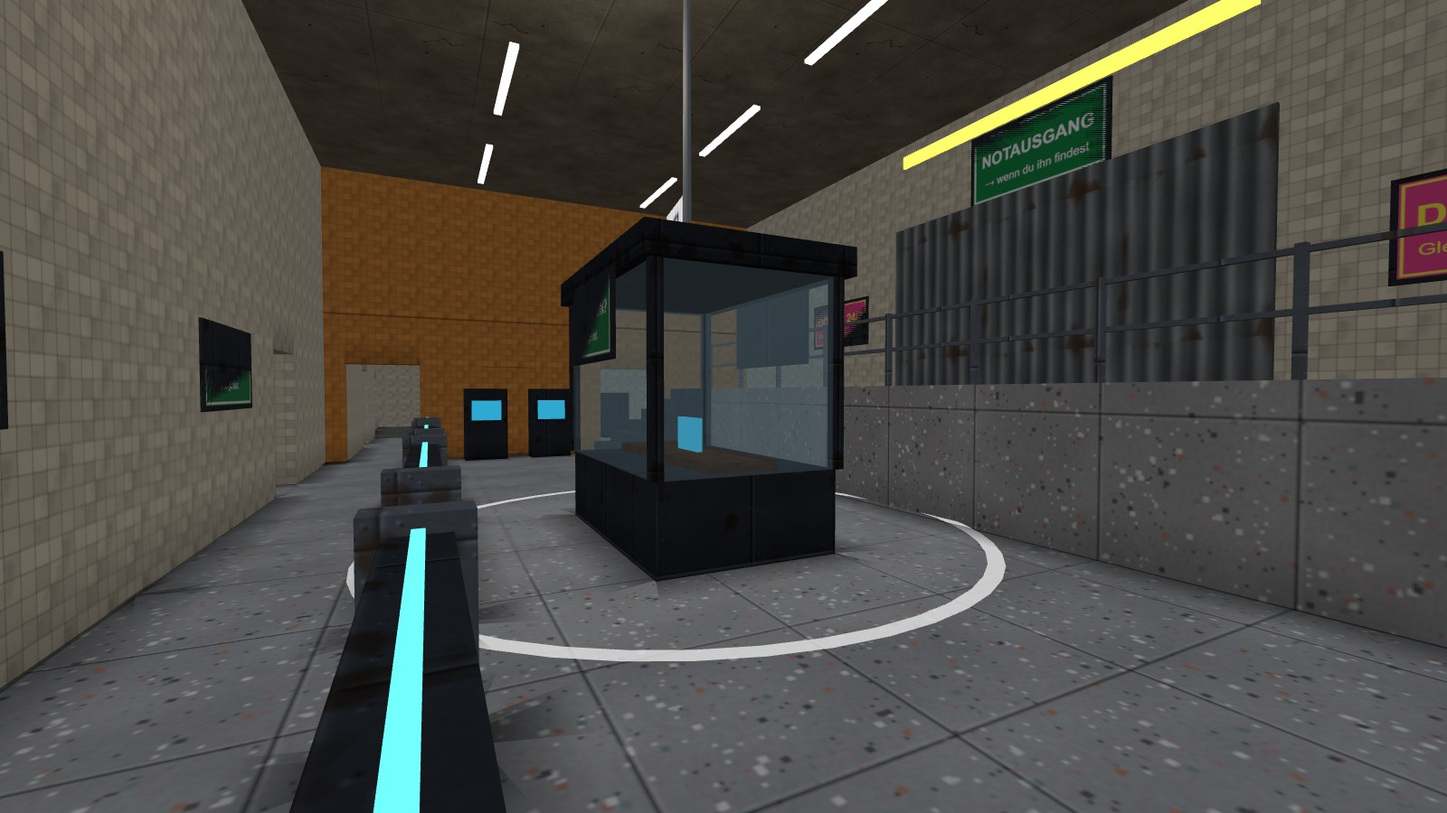
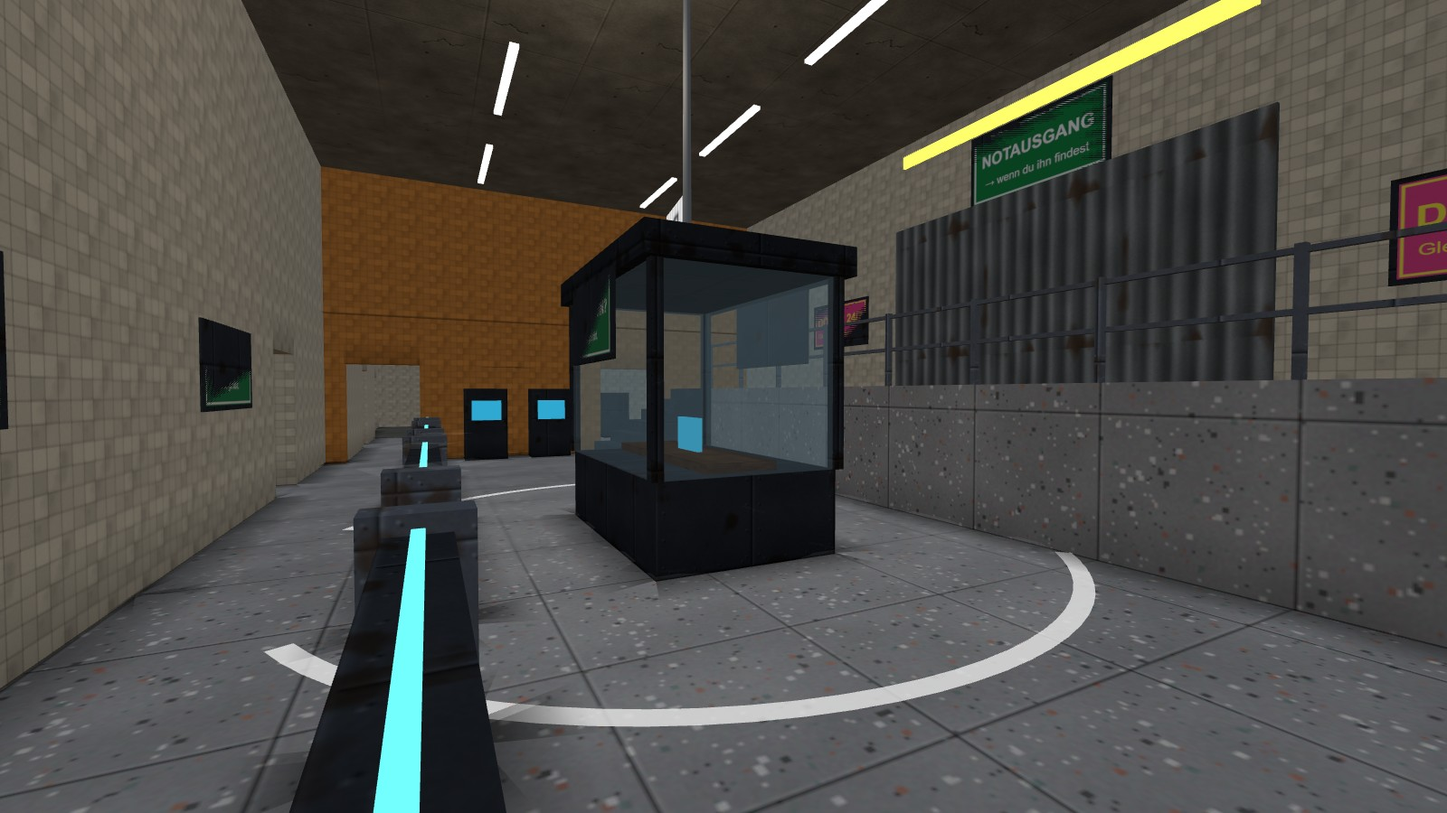
Shoot while sliding, open iron sights, endless Gun Game ammo
You can shoot at any time except while climbing: a slide no longer
keeps the gun down, rolling over while prone doesn't block it either,
and a trigger press during a sprint waits for the gun instead of
getting lost. Every rear sight is an open notch or ring and the front
post ends on the line of sight, so the target stays in view. Gun Game
has unlimited reserve ammo. CHANGELOG, README and three pictures also
describe the reworked Wingman points, whose map files are committed
separately.

diff --git a/src/weapons/models.js b/src/weapons/models.js
@@ -104,6 +104,24 @@ export function profCurve(parent, mat, segs, t, x = 0, bevel = 0.002) {
 function group(parent, name, x = 0, y = 0, z = 0) {
   const g = new THREE.Group(); g.name = name; g.position.set(x, y, z); parent.add(g); return g;
 }
+// Iron sights that leave the target in view. y is the line of sight (the model's ironY): the rear sight is a real
+// notch, two ears with nothing between them above the notch floor, and the front post ends exactly on the line, so
+// the shot goes where the tip of the post points and everything above it stays visible.
+function rearNotch(parent, mat, y, z, base, { w = 0.02, gap = 0.008, floor = 0.004, lip = 0.0015, d = 0.012 } = {}) {
+  box(parent, mat, w, y - floor - base, d, 0, (base + y - floor) / 2, z);
+  const ew = (w - gap) / 2, top = y + lip;
+  for (const s of [-1, 1]) box(parent, mat, ew, top - base, d, s * (gap + ew) / 2, (base + top) / 2, z);
+}
+function frontPost(parent, mat, y, z, base, w = 0.004, d = 0.006) {
+  box(parent, mat, w, y - base, d, 0, (base + y) / 2, z);
+}
+// a rear aperture (ghost ring) on a stem, with ears either side and nothing across the hole
+function rearRing(parent, mat, y, z, base, r = 0.0072, t = 0.0016) {
+  const ring = M(new THREE.TorusGeometry(r, t, 6, 18), mat); place(ring, 0, y, z); parent.add(ring);
+  box(parent, mat, 0.004, y - r - t - base, 0.006, 0, (base + y - r - t) / 2, z);
+  const ex = r + t + 0.0028, top = y + 0.006;
+  for (const s of [-1, 1]) box(parent, mat, 0.0025, top - base, 0.012, s * ex, (base + top) / 2, z);
+}
 // Rail with cross slots
 function rail(parent, mat, z0, z1, y, w = 0.021) {
   box(parent, mat, w, 0.007, z1 - z0, 0, y + 0.0035, (z0 + z1) / 2);
@@ -658,11 +676,10 @@ function buildAR(m, opt) {
   const ironUp = opt === 'iron';
   if (ironUp) {
     box(root, m.metal, 0.02, 0.012, 0.03, 0, 0.094, 0.07, 0, 0, 0, 0.002);
-    box(root, m.metal, 0.02, 0.022, 0.008, 0, 0.11, 0.075);
-    const ring = M(new THREE.TorusGeometry(0.0055, 0.0022, 6, 14), m.metal); place(ring, 0, 0.112, 0.07); root.add(ring);
+    rearRing(root, m.metal, 0.112, 0.07, 0.1);
     box(root, m.metal, 0.012, 0.02, 0.012, 0, 0.094, -0.44);
-    box(root, m.metal, 0.003, 0.02, 0.003, 0, 0.109, -0.44);
-    box(root, m.metal, 0.003, 0.024, 0.008, 0.008, 0.108, -0.44); box(root, m.metal, 0.003, 0.024, 0.008, -0.008, 0.108, -0.44);
+    frontPost(root, m.metal, 0.112, -0.44, 0.099, 0.003, 0.003);
+    box(root, m.metal, 0.003, 0.019, 0.008, 0.008, 0.1055, -0.44); box(root, m.metal, 0.003, 0.019, 0.008, -0.008, 0.1055, -0.44);
   } else {
     box(root, m.metal, 0.016, 0.012, 0.032, 0, 0.094, -0.44, 0, 0, 0, 0.002);
     box(root, m.metal, 0.014, 0.004, 0.026, 0, 0.1015, -0.44, 0, 0, 0, 0.0015);
@@ -711,8 +728,8 @@ function buildSMG(m, opt) {
   box(P.mag, m.poly, 0.028, 0.012, 0.05, 0, -0.164, -0.007, 0, 0, 0, 0.003);
   // iron sights
   if (opt === 'iron') {
-    box(root, m.metal, 0.02, 0.016, 0.012, 0, 0.1, 0.07); box(root, m.dark, 0.006, 0.008, 0.013, 0, 0.106, 0.07);
-    box(root, m.metal, 0.004, 0.018, 0.006, 0, 0.1, -0.17); box(root, m.metal, 0.02, 0.006, 0.01, 0, 0.094, -0.17);
+    rearNotch(root, m.metal, 0.109, 0.07, 0.092, { gap: 0.007 });
+    frontPost(root, m.metal, 0.109, -0.17, 0.091); box(root, m.metal, 0.02, 0.006, 0.01, 0, 0.094, -0.17);
   }
 
   // ---- detail pass: side rails, pins, controls, mag witness holes, stock hinge, grip rings
@@ -776,8 +793,8 @@ function buildLMG(m, opt) {
   P.belt = group(P.mag, 'belt', 0, 0, 0);
   for (let i = 0; i < 4; i++) cyl(P.belt, m.brass, 0.0055, 0.0055, 0.045, 0.012 + i * 0.01, -0.0, -0.01, 'x', 6);
   if (opt === 'iron') {
-    box(root, m.metal, 0.02, 0.02, 0.012, 0, 0.088, 0.1); box(root, m.dark, 0.006, 0.01, 0.013, 0, 0.094, 0.1);
-    box(root, m.metal, 0.004, 0.03, 0.006, 0, 0.068, -0.6);
+    rearNotch(root, m.metal, 0.096, 0.1, 0.078);
+    box(root, m.metal, 0.012, 0.031, 0.012, 0, 0.0685, -0.6); frontPost(root, m.metal, 0.096, -0.6, 0.084);
   }
 
   // ---- detail pass: receiver rivets, cover latch, carry handle grip, deployed-ready bipod, gas tube
@@ -829,8 +846,8 @@ function buildDMR(m, opt) {
   prof(P.mag, m.metal, [[0.03, 0.0], [-0.03, 0.0], [-0.034, -0.12], [0.026, -0.12]], 0.03, 0, 0.003);
   box(P.mag, m.metal, 0.034, 0.012, 0.064, 0, -0.123, -0.004, 0, 0, 0, 0.003);
   if (opt === 'iron') {
-    box(root, m.metal, 0.02, 0.02, 0.012, 0, 0.1, 0.08); box(root, m.dark, 0.006, 0.01, 0.013, 0, 0.105, 0.08);
-    box(root, m.metal, 0.004, 0.028, 0.006, 0, 0.082, -0.66);
+    rearNotch(root, m.metal, 0.108, 0.08, 0.09);
+    box(root, m.metal, 0.012, 0.03, 0.012, 0, 0.083, -0.66); frontPost(root, m.metal, 0.108, -0.66, 0.098);
   }
 
   // ---- detail pass: steel fittings on the wood furniture
@@ -890,8 +907,8 @@ function buildSniper(m, opt) {
   for (const dz of [-0.06, 0.06]) for (const sx of [-1, 1]) box(root, m.steel, 0.004, 0.006, 0.006, sx * 0.0125, 0.073, dz, 0, 0, 0, 0.001);
   box(root, m.metal, 0.03, 0.006, 0.07, 0, -0.054, -0.03, 0, 0, 0, 0.002);
   if (opt === 'iron') { // a found rifle can come without any scope
-    box(root, m.metal, 0.02, 0.016, 0.012, 0, 0.094, 0.07); box(root, m.dark, 0.006, 0.008, 0.013, 0, 0.099, 0.07);
-    box(root, m.metal, 0.004, 0.05, 0.006, 0, 0.078, -0.82);
+    rearNotch(root, m.metal, 0.103, 0.07, 0.086);
+    frontPost(root, m.metal, 0.103, -0.82, 0.053);
   }
 
   return {
@@ -927,9 +944,11 @@ function buildShotgun(m, opt) {
   P.shellHand = group(root, 'shell', 0, 0, 0);
   const sh = shellCasing(m, 'shotgun'); P.shellHand.add(sh); P.shellHand.visible = false;
   if (opt === 'iron') {
-    const bead = M(new THREE.SphereGeometry(0.004, 8, 6), m.brass); place(bead, 0, 0.071, -0.62); root.add(bead);
+    // (the line of sight runs over the rail on the receiver: the notch sits on the rail, the bead on a blade)
+    const bead = M(new THREE.SphereGeometry(0.004, 8, 6), m.brass); place(bead, 0, 0.0825, -0.62); root.add(bead);
+    box(root, m.metal, 0.003, 0.0115, 0.006, 0, 0.07675, -0.62);
     box(root, m.metal, 0.004, 0.006, 0.4, 0, 0.068, -0.42);
-    box(root, m.metal, 0.018, 0.01, 0.01, 0, 0.074, 0.04); box(root, m.dark, 0.005, 0.006, 0.011, 0, 0.078, 0.04);
+    rearNotch(root, m.metal, 0.0865, 0.04, 0.0775, { w: 0.018, gap: 0.007, floor: 0.0035, d: 0.01 });
   }
 
   // ---- detail pass: side saddle with shells, ventilated heat shield, pins and controls
@@ -943,7 +962,7 @@ function buildShotgun(m, opt) {
   box(root, m.steel, 0.006, 0.012, 0.012, 0, 0.006, -0.57, 0, 0, 0, 0.002);
 
   return {
-    root, parts: P, ironY: 0.074, railY: 0.0775, opticZ: -0.03,
+    root, parts: P, ironY: 0.0865, railY: 0.0775, opticZ: -0.03,
     anchors: {
       rhand: rhandGrip(0, -0.06, 0.1, 0.45), lhand: lhandRail(0, 0.015, -0.27, 0.4),
       muzzle: new THREE.Vector3(0, 0.055, -0.64), eject: new THREE.Vector3(0.03, 0.045, -0.04),
@@ -968,10 +987,9 @@ function buildPistol(m, opt, variant) {
   box(P.slide, m.metal, 0.028, 0.03, 0.185, 0, 0.03, -0.035, 0, 0, 0, 0.003);
   for (let i = 0; i < 6; i++) box(P.slide, m.dark, 0.0285, 0.018, 0.003, 0, 0.03, 0.035 + i * 0.008 - 0.02);
   box(P.slide, m.dark, 0.003, 0.012, 0.03, 0.0142, 0.034, -0.05);
-  box(P.slide, m.metal, 0.012, 0.008, 0.006, 0, 0.048, 0.05);
-  box(P.slide, m.dark, 0.004, 0.006, 0.0065, 0, 0.049, 0.05);
-  box(P.slide, m.metal, 0.003, 0.009, 0.006, 0, 0.049, -0.12);
-  const dot = M(new THREE.SphereGeometry(0.0016, 6, 4), m.emissiveRed); place(dot, 0, 0.052, -0.118); P.slide.add(dot);
+  rearNotch(P.slide, m.metal, 0.0525, 0.05, 0.044, { w: 0.012, gap: 0.005, floor: 0.003, lip: 0.001, d: 0.006 });
+  frontPost(P.slide, m.metal, 0.0525, -0.12, 0.0445, 0.003);
+  const dot = M(new THREE.SphereGeometry(0.0014, 6, 4), m.emissiveRed); place(dot, 0, 0.05, -0.1172); P.slide.add(dot);
   cyl(root, m.metal, 0.0065, 0.0065, 0.02, 0, 0.03, -0.13);
   if (auto) {
     // compensator + selector
@@ -1025,14 +1043,14 @@ function buildRevolver(m, opt) {
   cyl(P.mag, m.dark, 0.016, 0.016, 0.02, 0, 0, 0.02, 'z', 10);
   for (let i = 0; i < 6; i++) { const a = i / 6 * Math.PI * 2; cyl(P.mag, m.brass, 0.0045, 0.004, 0.03, Math.cos(a) * 0.0115, Math.sin(a) * 0.0115, -0.01, 'z', 6); }
 
-  // ---- detail pass: hammer spur, cylinder latch, grip screw & medallion, sight insert
-  box(root, m.steel, 0.008, 0.008, 0.016, 0, 0.078, 0.052, -0.6, 0, 0, 0.002);
-  for (let i = 0; i < 3; i++) box(root, m.dark, 0.0085, 0.0015, 0.004, 0, 0.083 - i * 0.002, 0.048 + i * 0.004, -0.6);
+  // ---- detail pass: hammer spur (kept under the line of sight), cylinder latch, grip screw & medallion, sights
+  box(root, m.steel, 0.008, 0.008, 0.016, 0, 0.07, 0.052, -0.6, 0, 0, 0.002);
+  for (let i = 0; i < 3; i++) box(root, m.dark, 0.0085, 0.0015, 0.004, 0, 0.075 - i * 0.002, 0.048 + i * 0.004, -0.6);
   box(root, m.steel, 0.004, 0.008, 0.014, -0.0175, 0.04, 0.01, 0, 0, 0, 0.0015);
   cyl(root, m.steel, 0.0032, 0.0032, 0.036, 0, -0.05, 0.05, 'x', 10);
   cyl(root, m.brass, 0.006, 0.006, 0.002, 0.0175, -0.065, 0.054, 'x', 12);
-  box(root, m.emissiveRed, 0.0025, 0.004, 0.003, 0, 0.081, -0.225);
-  box(root, m.dark, 0.004, 0.004, 0.006, 0, 0.072, 0.04);
+  if (opt === 'iron') rearNotch(root, m.steel, 0.08, 0.03, 0.062, { w: 0.012, gap: 0.005, floor: 0.003, lip: 0.001, d: 0.008 });
+  box(root, m.emissiveRed, 0.0025, 0.005, 0.002, 0, 0.0765, -0.2195);
 
   return {
     root, parts: P, ironY: 0.08, railY: 0.07, opticZ: 0.0,
@@ -1088,11 +1106,10 @@ function buildBurst(m, opt) {
   box(P.mag, m.brass, 0.009, 0.005, 0.03, 0, 0.022, 0.0, 0, 0, 0, 0.002);
   if (opt === 'iron') {
     box(root, m.metal, 0.02, 0.012, 0.03, 0, 0.094, 0.07, 0, 0, 0, 0.002);
-    box(root, m.metal, 0.02, 0.022, 0.008, 0, 0.11, 0.075);
-    const ring = M(new THREE.TorusGeometry(0.0055, 0.0022, 6, 14), m.metal); place(ring, 0, 0.112, 0.07); root.add(ring);
+    rearRing(root, m.metal, 0.112, 0.07, 0.1);
     box(root, m.metal, 0.012, 0.02, 0.012, 0, 0.09, -0.36);
-    box(root, m.metal, 0.003, 0.018, 0.003, 0, 0.103, -0.36);
-    box(root, m.metal, 0.003, 0.022, 0.008, 0.008, 0.102, -0.36); box(root, m.metal, 0.003, 0.022, 0.008, -0.008, 0.102, -0.36);
+    frontPost(root, m.metal, 0.112, -0.36, 0.094, 0.003, 0.003);
+    box(root, m.metal, 0.003, 0.024, 0.008, 0.008, 0.103, -0.36); box(root, m.metal, 0.003, 0.024, 0.008, -0.008, 0.103, -0.36);
   }
   return {
     root, parts: P, ironY: 0.112, railY: 0.0895, opticZ: 0.0,
@@ -1139,8 +1156,8 @@ function buildPDW(m, opt) {
   box(P.mag, m.poly, 0.028, 0.01, 0.052, 0, -0.158, -0.012, 0.08, 0, 0, 0.003);
   for (const s of [-1, 1]) for (let i = 0; i < 4; i++) cyl(P.mag, m.dark, 0.0028, 0.0028, 0.002, s * 0.0122, -0.03 - i * 0.03, -0.008 - i * 0.002, 'x', 8);
   if (opt === 'iron') {
-    box(root, m.metal, 0.02, 0.014, 0.012, 0, 0.094, 0.07); box(root, m.dark, 0.006, 0.008, 0.013, 0, 0.099, 0.07);
-    box(root, m.metal, 0.004, 0.018, 0.006, 0, 0.092, -0.17); box(root, m.metal, 0.02, 0.006, 0.01, 0, 0.086, -0.17);
+    rearNotch(root, m.metal, 0.101, 0.07, 0.087, { gap: 0.007 });
+    frontPost(root, m.metal, 0.101, -0.17, 0.083); box(root, m.metal, 0.02, 0.006, 0.01, 0, 0.086, -0.17);
   }
   return {
     root, parts: P, ironY: 0.101, railY: 0.0855, opticZ: -0.03,
@@ -1197,8 +1214,8 @@ function buildAMR(m, opt) {
   for (const s of [-1, 1]) for (let i = 0; i < 3; i++) box(P.mag, m.dark, 0.002, 0.09, 0.008, s * 0.0255, -0.06, -0.03 + i * 0.03);
   box(P.mag, m.brass, 0.018, 0.008, 0.08, 0, 0.008, 0, 0, 0, 0, 0.003);
   if (opt === 'iron') {
-    box(root, m.metal, 0.024, 0.016, 0.012, 0, 0.098, 0.09); box(root, m.dark, 0.008, 0.008, 0.013, 0, 0.103, 0.09);
-    box(root, m.metal, 0.005, 0.076, 0.006, 0, 0.07, -0.9);
+    rearNotch(root, m.metal, 0.107, 0.09, 0.09, { w: 0.024, gap: 0.009 });
+    frontPost(root, m.metal, 0.107, -0.9, 0.032, 0.005);
   }
   return {
     root, parts: P, ironY: 0.107, railY: 0.0895, opticZ: -0.02,
@@ -1247,8 +1264,8 @@ function buildAutoshot(m, opt) {
   for (const s of [-1, 1]) for (let i = 0; i < 3; i++) box(P.mag, m.dark, 0.002, 0.086, 0.008, s * 0.0255, -0.055, -0.025 + i * 0.025);
   cyl(P.mag, m.shell, 0.0095, 0.0095, 0.05, 0, 0.012, -0.002, 'z', 10);
   if (opt === 'iron') {
-    box(root, m.metal, 0.02, 0.012, 0.012, 0, 0.096, 0.05); box(root, m.dark, 0.006, 0.008, 0.013, 0, 0.1, 0.05);
-    box(root, m.metal, 0.004, 0.024, 0.006, 0, 0.09, -0.36); box(root, m.metal, 0.02, 0.008, 0.012, 0, 0.082, -0.36);
+    rearNotch(root, m.metal, 0.102, 0.05, 0.09);
+    frontPost(root, m.metal, 0.102, -0.36, 0.078); box(root, m.metal, 0.02, 0.008, 0.012, 0, 0.082, -0.36);
   }
   return {
     root, parts: P, ironY: 0.102, railY: 0.0905, opticZ: -0.05,
@@ -1277,10 +1294,9 @@ function buildHandcannon(m, opt) {
   for (let i = 0; i < 7; i++) box(P.slide, m.dark, 0.0345, 0.026, 0.0028, 0, 0.038, 0.02 + i * 0.006);
   for (let i = 0; i < 3; i++) for (const s of [-1, 1]) box(P.slide, m.dark, 0.002, 0.012, 0.018, s * 0.0171, 0.034, -0.09 - i * 0.024);
   box(P.slide, m.dark, 0.003, 0.016, 0.034, 0.0172, 0.045, -0.03);
-  box(P.slide, m.metal, 0.016, 0.008, 0.008, 0, 0.064, 0.055);
-  box(P.slide, m.dark, 0.005, 0.007, 0.0085, 0, 0.0655, 0.055);
-  box(P.slide, m.metal, 0.004, 0.01, 0.008, 0, 0.0635, -0.115);
-  const dot = M(new THREE.SphereGeometry(0.0018, 6, 4), m.emissiveRed); place(dot, 0, 0.0675, -0.112); P.slide.add(dot);
+  rearNotch(P.slide, m.metal, 0.0695, 0.055, 0.06, { w: 0.016, gap: 0.006, floor: 0.003, lip: 0.001, d: 0.008 });
+  frontPost(P.slide, m.metal, 0.0695, -0.115, 0.0585, 0.004, 0.008);
+  const dot = M(new THREE.SphereGeometry(0.0015, 6, 4), m.emissiveRed); place(dot, 0, 0.0665, -0.1108); P.slide.add(dot);
   cyl(root, m.dark, 0.0095, 0.0095, 0.012, 0, 0.034, -0.162);
   P.mag = group(root, 'mag', 0, 0, 0.032);
   prof(P.mag, m.metal, [[-0.018, 0.0], [0.018, 0.0], [0.04, -0.108], [0.004, -0.108]], 0.028, 0, 0.002);

diff --git a/src/weapons/playerWeapons.js b/src/weapons/playerWeapons.js
@@ -146,11 +146,15 @@ export class PlayerWeapons {
     if (w.def.reloadStyle === 'pistol' && w.mag === 0) this.vm.persist.slide = 1;
   }
 
+  // Gun Game: the ammo never runs out, you only reload the magazine
+  get infiniteAmmo() { const m = this.game.match; return !!(m && m.gun); }
+
   // --------------------------------------------------------------- update
   update(dt, input, player) {
     const g = this.game, t = g.time;
     const w = this.w, def = w.def;
     if (!player.alive) return;
+    if (this.infiniteAmmo && !def.melee) w.reserve = def.reserve;
 
     // ---- weapon switching
     let want = -1;
@@ -169,11 +173,11 @@ export class PlayerWeapons {
 
     // ---- sprint / movement restrictions
     const sprinting = player.sprinting;
-    // can't aim or shoot with no free hands, in the middle of rolling over, or while swapping
-    const lowered = player.mode === 'mantle' || player.proneRollT > 0 || this.state === 'holster';
+    // you can aim and shoot at any time, except while climbing (no free hands) or swapping guns
+    const lowered = player.mode === 'mantle' || this.state === 'holster';
     if (sprinting) this.raiseT = player.tac ? def.tacToFire : def.sprintToFire;
-    else if (player.mode === 'slide') this.raiseT = Math.min(this.raiseT, 0.08);
-    else this.raiseT = Math.max(0, this.raiseT - dt);
+    // a slide brings the gun up out of any sprint within a moment
+    else this.raiseT = Math.max(0, (player.mode === 'slide' ? Math.min(this.raiseT, 0.08) : this.raiseT) - dt);
     if (lowered) this.raiseT = Math.max(this.raiseT, player.mantle && player.mantle.high ? 0.28 : 0.15);
 
     // ---- ADS
@@ -186,7 +190,8 @@ export class PlayerWeapons {
     this.adsAmount = clamp(this.adsAmount + (this.wantsAds ? adsRate : -adsRate * 1.3) * dt, 0, 1);
 
     // ---- fire input
-    if (input.firePressed) this.fireBuffer = 0.15; else this.fireBuffer -= dt;
+    // (a press while the gun is still coming up out of a sprint or slide waits for it instead of getting lost)
+    if (input.firePressed) this.fireBuffer = Math.max(0.15, lowered ? 0 : this.raiseT + 0.05); else this.fireBuffer -= dt;
     this.firingRecently = input.fire && this.state !== 'holster' && this.state !== 'draw';
     const triggerHeld = input.fire;
     const canShootState = this.state === 'idle' || (this.state === 'reload' && def.reloadStyle === 'shell' && w.mag > 0);
@@ -222,7 +227,7 @@ export class PlayerWeapons {
     this.vm.update(dt, {
       ads: this.adsAmount, firing: this.firingRecently, mantleHigh: !!(player.mantle && player.mantle.high), ledge: player.mantle,
       sprint: sprinting, tac: player.tac, slide: player.mode === 'slide', dive: player.mode === 'dive', mantle: player.mode === 'mantle',
-      crawl: player.stance === 'prone' && player.speedH > 0.3 && t - this.lastShotT > 0.5 && !this.firingRecently, crouch: player.stance === 'crouch', lower: player.proneRollT > 0,
+      crawl: player.stance === 'prone' && player.speedH > 0.3 && t - this.lastShotT > 0.5 && !this.firingRecently, crouch: player.stance === 'crouch', lower: player.proneRollT > 0 && !this.firingRecently && this.adsAmount < 0.05,
       bobPhase: player.bobPhase, bobAmt: player.bobAmt * (player.onGround ? 1 : 0),
       lookDX: g.lookDX, lookDY: g.lookDY, vy: player.vel.y, strafe: player.moveInput.x,
       landImpulse: player._landVm || 0, corner, mantleK: player.mantle ? Math.min(1, player.mantle.t / player.mantle.dur) : 0,

diff --git a/src/ui/hud.js b/src/ui/hud.js
@@ -379,10 +379,10 @@ export class HUD {
       if (this.lastAmmo !== 'knife') { this.lastAmmo = 'knife'; this.el.ammoMag.textContent = '∞'; this.el.ammoRes.textContent = ''; this.el.ammoW.textContent = wpn.w.def.name; this.el.ammoMag.classList.remove('low'); this.el.ammoBar.style.transform = 'scaleX(1)'; this.el.ammoHint.textContent = ''; }
     } else if (wpn && wpn.w) {
       const w = wpn.w;
-      const s = w.mag + '|' + w.reserve + '|' + w.def.name;
+      const res = wpn.infiniteAmmo ? '∞' : w.reserve, s = w.mag + '|' + res + '|' + w.def.name;
       if (s !== this.lastAmmo) {
         this.lastAmmo = s;
-        this.el.ammoMag.textContent = w.mag; this.el.ammoRes.textContent = '/ ' + w.reserve; this.el.ammoW.textContent = w.def.name;
+        this.el.ammoMag.textContent = w.mag; this.el.ammoRes.textContent = '/ ' + res; this.el.ammoW.textContent = w.def.name;
         this.el.ammoMag.classList.toggle('low', w.mag <= Math.ceil(w.def.mag * 0.25));
         this.el.ammoBar.style.transform = `scaleX(${w.mag / w.def.mag})`;
       }

diff --git a/README.md b/README.md
@@ -21,7 +21,7 @@ The newest mode: 2 against 2, you and a bot against two bots, or players togethe
 - **Respawns** never run out, and you always come back at your own base.
 - **What you see:** the flag of whoever is taking a point climbs the pole, the owner's flag flies at the top, blue for your team and red for the others. Both points show under the score, as markers over the map and on the minimap, and the circle you stand in tells you how far the taking has come.
 - **Bots** play for the points: they split up while both are open, take the last one together, and run back when the others start taking one of theirs.
-- **Maps:** Millrace and Cornice, built for the mode, plus Sirocco, Atrium, Dynamo, Blacksite, Citadel, Backrooms and Drydock. Every point was placed so that both teams walk the same distance to it and no spawn can see it. On Blacksite point A is up on the guard tower and point B around the helicopter.
+- **Maps:** Millrace, Cornice and Nightline, built for the mode, plus Sirocco, Atrium, Dynamo, Blacksite, Citadel, Backrooms and Drydock. Every point sits in an open spot you can hold, with cover inside the circle and several ways in, and was placed so that both teams walk the same distance to it and no spawn can see it. Where a map has an open place a floor up, one point is up there and the other down below: in the boardroom on Atrium, on the terrace on Citadel, on the guard tower on Blacksite, on the tea house terraces on Sirocco and on the gondola deck on Cornice. The circle only shows where standing counts, so it never runs through walls or hangs over a drop.
 - **Multiplayer:** with bots it is 2 against 2, without bots only the players play, so two of you play 1 against 1.
 
 ### Runs on a toaster
@@ -37,7 +37,7 @@ The game now also runs on very weak computers, and on ones with no usable graphi
 
 ### Six new maps
 
-**Sirocco**, a walled caravan town in the desert: a domed market hall with a door on every side, the well square with a tea house terrace, a caravanserai with a gallery on its arcade roofs, houses to run through and flat roofs with a bridge over the street. **Atrium**, an office building in the evening: two floors around a glass-roofed lobby, open-plan offices, a server room and a boardroom behind glass, a canteen and loading yards. **Dynamo**, a coal-fired power station at dusk: a turbine hall with catwalks and a bridge, a coal heap you can climb and a switchyard with its control house. Three more were built for Wingman: **Millrace**, a sawmill on a mill stream in the morning mist, point A in the saw hall over the water and point B on the timber landing by the jetty; and **Cornice**, a cable car station and a mountain hut in the snow at sunset, point A up on the gondola deck and point B in the hut by the tiled stove; and **Nightline**, the terminus of a metro line at night after the last train, point A on the platform in front of a parked train you can run through and point B in the ticket hall behind the turnstiles.
+**Sirocco**, a walled caravan town in the desert: a domed market hall with a door on every side, the well square with a tea house terrace, a caravanserai with a gallery on its arcade roofs, houses to run through and flat roofs with a bridge over the street. **Atrium**, an office building in the evening: two floors around a glass-roofed lobby, open-plan offices, a server room and a boardroom behind glass, a canteen and loading yards. **Dynamo**, a coal-fired power station at dusk: a turbine hall with catwalks and a bridge, a coal heap you can climb and a switchyard with its control house. Three more were built for Wingman: **Millrace**, a sawmill on a mill stream in the morning mist, point A around the frame saw in the saw hall over the water and point B on the timber landing by the jetty; and **Cornice**, a cable car station and a mountain hut in the snow at sunset, point A up on the gondola deck and point B in the hut by the tiled stove; and **Nightline**, the terminus of a metro line at night after the last train, point A on the platform in front of a parked train you can run through and point B around the ticket booth in the ticket hall behind the turnstiles.
 
 | Sirocco | Sirocco, the well square |
 |---|---|
@@ -125,6 +125,7 @@ Everyone for themselves, and every kill puts the next weapon in your hands. The 
 - **The knife:** two stabs on someone at full health, or one on a bot from behind. It's the only thing you hold on the last level, and the left mouse button stabs with it.
 - **Skins:** every new weapon comes with a random skin, the standard look included.
 - **No loadout:** the ladder decides what you carry. The HUD shows your level, the next weapon and who is ahead, and the scoreboard shows everyone's level and weapon.
+- **Unlimited ammo:** the reserve never runs out, so you only ever reload.
 - **Bots** climb the same ladder and come at you with the knife when they get there. It works on all eleven maps, and with your friends over the network.
 
 | Who is ahead, and with what | The last level |
@@ -179,7 +180,7 @@ When a bot gets you, you see it from the scene's camera:
 
 ### Fast movement
 
-Sprint, press Shift again for a tactical sprint, and drop straight into a slide. Jump out of the slide to cancel it and keep your speed. You can also dive, wall-jump up to three times, or hit crouch in mid-air to lay flat and land prone.
+Sprint, press Shift again for a tactical sprint, and drop straight into a slide, shooting all the way. Jump out of the slide to cancel it and keep your speed. You can also dive, wall-jump up to three times, or hit crouch in mid-air to lay flat and land prone. The only time you can't shoot is while climbing.
 
 Prone is a real stance too. You can turn a full 360°, and looking behind you rolls the character onto their back with the legs in view. Shift gets you up and running immediately.
 
@@ -235,7 +236,7 @@ Fourteen weapons, each with its own stats and handling, plus the knife at the en
 | M-50 Bastion | Heavy pistol | Semi-automatic | 125 | 7 |
 | SK-18 Wasp | Machine pistol | Automatic | 1050 | 22 |
 
-Fourteen optics, from iron sights and red dots through 2x to 12x scopes to thermal sights. Scopes use a picture-in-picture lens. Which ones are available in the loadout menu depends on the weapon.
+Fourteen optics, from iron sights and red dots through 2x to 12x scopes to thermal sights. With iron sights the shot goes where the tip of the front post points, and the rear sight is an open notch or ring, so the target stays in view. Scopes use a picture-in-picture lens. Which ones are available in the loadout menu depends on the weapon.
 
 Aiming against an edge rests the weapon on it for less recoil, and at corners you lean out.
 

diff --git a/CHANGELOG.md b/CHANGELOG.md
@@ -2,6 +2,30 @@
 
 All notable changes to this project are listed here. The format follows [Keep a Changelog](https://keepachangelog.com/en/1.1.0/), and version numbers follow [Semantic Versioning](https://semver.org/).
 
+## [Unreleased]
+
+### Changed
+
+- You can shoot at any time now, except while climbing. In a slide the gun stayed down until the slide was over; now it comes up at once and fires. Rolling over while lying down no longer stops you either, and a single press of the trigger while sprinting is no longer lost: the shot goes off as soon as the gun is up.
+- Gun Game: the ammo never runs out. You still reload, and the ammo counter shows ∞ instead of the reserve.
+- Wingman: the points were placed again, in open spots you can hold: cover inside the circle, several ways in and room to move. Where a map has an open place a floor up, one point is up there and the other down below.
+  - Atrium: A upstairs in the boardroom over the server room, B in the lobby by the main entrance.
+  - Citadel: A at the well between the west houses, B up on the terrace around the kiosk.
+  - Sirocco: A stays in the caravanserai's courtyard around the cistern; B is up on the tea house terraces, and its circle takes in the square in front.
+  - Drydock: A in a pocket between containers in the middle of the quay (two new containers there, in place of a concrete barrier), B between the containers in the yard.
+  - Dynamo: A around the coal bunker below the heap, B behind the control house. A covered conveyor gallery now joins the coal shed and the transfer tower; you can climb onto it, and from there onto the shed roofs.
+  - Blacksite: A stays on the guard tower and B around the helicopter, but a container on each side of the helipad and a crate stack at each lab corner now screen them from the spawn yards.
+  - Backrooms: A in the open part of the dark rooms, B at the end of the pillar hall in front of the red room.
+  - Millrace and Nightline keep their points, with bigger circles. Cornice stays as it was.
+- The circle of a point only shows where standing counts: it no longer runs through walls, crates or roofs, doesn't hang over drops and follows steps.
+- A few spawns moved, two per team on Blacksite and Dynamo and one on Sirocco, so that no spawn looks onto a point.
+
+### Fixed
+
+- Iron sights no longer hide what you aim at. On every gun the rear sight was a solid block with a notch only painted on, right on the line of sight, and on the AR-77 and the KR-3 a solid plate sat in front of the rear ring, so a soldier you aimed at disappeared behind the sight. Now every rear sight is an open notch (a real ring on those two), the tip of the front post marks where the shot goes, and the target stays in view above and around it. On the HMG-90 and the MK-14 the front post now reaches the line of sight, and on the Breacher-12 the line of sight runs above the rail instead of through it.
+- Wingman: some spawns could see a point. On Drydock, Blacksite and Sirocco the old points lay in view of a spawn; none does now. And everyone standing in a circle counts: in the Backrooms, 14 of the 32 standing spots in the circle of point B didn't.
+- Citadel: the strip behind the terrace kiosk was a 3 m deep pit you could fall into and never get out of.
+
 ## [0.6.0] - 2026-11-03
 
 The Wingman update: a new mode for 2 against 2, six new maps, bodies that fight as they fall, and a game that runs on very weak computers too.
